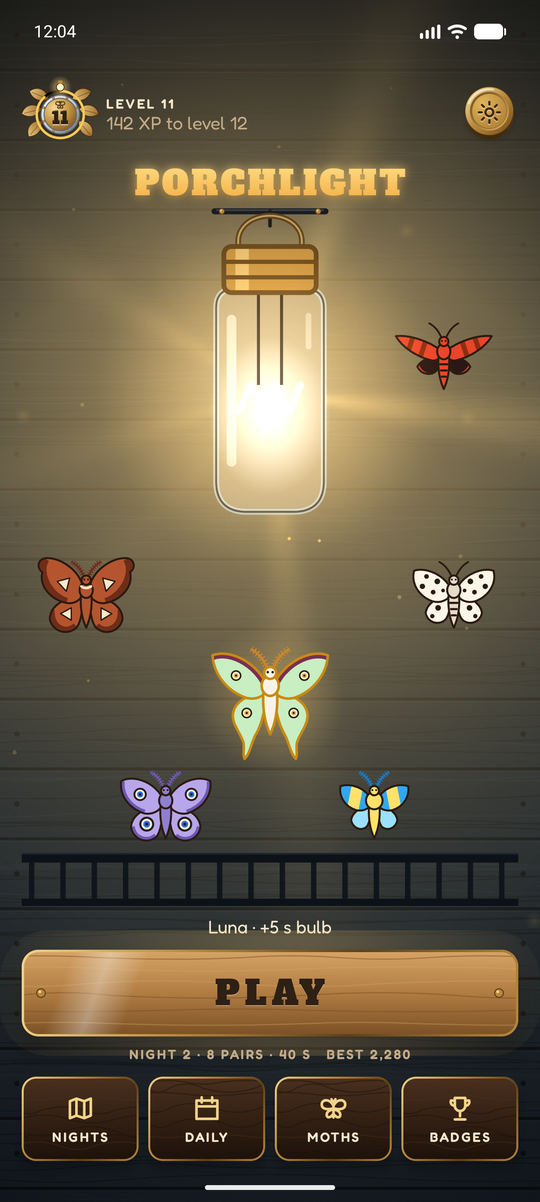
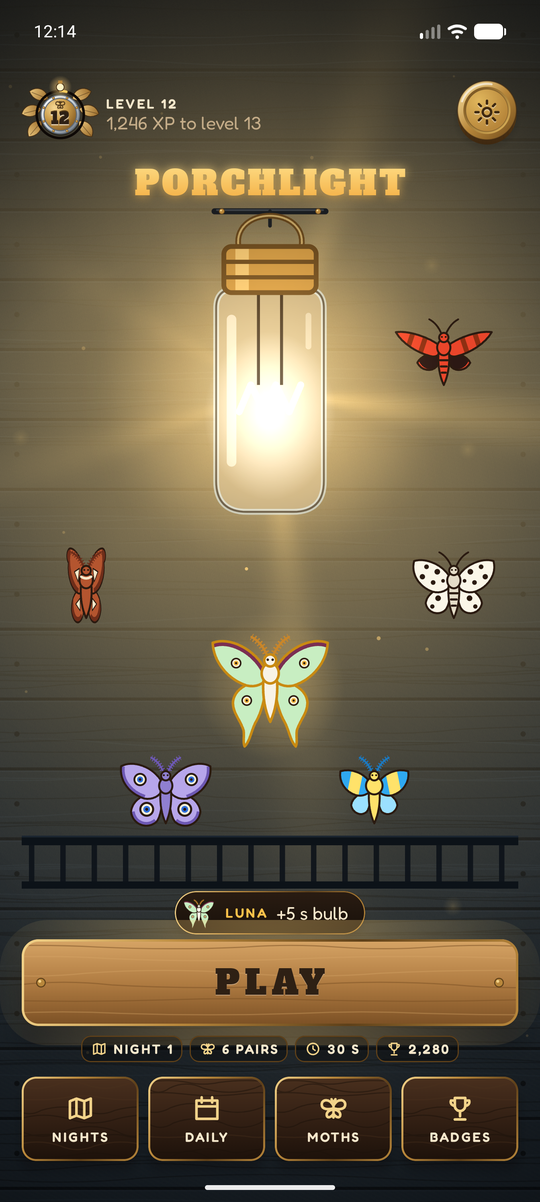
Porch tag and fact plates, a switchable porch light, 3D daily week
- The lead line is a small brass-edged tag: the moth, its name in
  capitals, what it does. Tonight's facts are four engraved plates with
  marks (night, pairs, seconds, best) instead of one run-on caption.
- Tapping the jar switches the porch light off with a click (the wall
  and the moths fall dark) and on again with a couple of flickers and
  the bulb's hum; every moth starts up at the switch. A switch to
  screen readers. It is back on whenever you return to the porch.
- The daily week is 3D coins: brass with the stars cut in for a played
  day, iron pressed into the plank for a missed one, today ringed in
  light (gold once played).
- The daily porch's play button is the big animated sign: PLAY TODAY,
  or PRACTISE once today's try is in.

diff --git a/app/src/main/java/app/porchlight/game/Porch.kt b/app/src/main/java/app/porchlight/game/Porch.kt
@@ -1,5 +1,10 @@
 package app.porchlight.game
 
+import androidx.compose.ui.draw.shadow
+import androidx.compose.foundation.background
+import androidx.compose.foundation.interaction.MutableInteractionSource
+import androidx.compose.foundation.layout.ExperimentalLayoutApi
+import androidx.compose.foundation.layout.FlowRow
 import androidx.compose.runtime.remember
 import kotlinx.coroutines.delay
 import androidx.compose.ui.graphics.drawscope.Stroke
@@ -148,6 +153,7 @@ private fun Logo(calm: Boolean) {
     )
 }
 
+@OptIn(ExperimentalLayoutApi::class)
 @Composable
 private fun Controls(session: Session) {
     val progress = session.store.progress
@@ -155,38 +161,44 @@ private fun Controls(session: Session) {
     val night = NIGHTS[progress.night - 1]
     // On a tablet the sign and tiles keep to a comfortable width instead of spanning the screen.
     Column(Modifier.widthIn(max = 560.dp), horizontalAlignment = Alignment.CenterHorizontally) {
-        // One line: who leads and what they do. Tapping a locked moth explains how to meet it here.
+        // Who leads, on a small brass-edged tag: the moth, its name, what it does. Tap for the full
+        // sentence; tapping a locked moth explains here how to meet it.
+        val notice = session.notice
         Row(
             Modifier
-                .clip(RoundedCornerShape(8.dp))
+                .shadow(4.dp, RoundedCornerShape(20.dp), ambientColor = Dusk.shadow, spotColor = Dusk.shadow)
+                .clip(RoundedCornerShape(20.dp))
+                .background(Brush.verticalGradient(listOf(Color(0xFF2A1C12), Color(0xFF17100A))))
+                .border(1.dp, BrassRule, RoundedCornerShape(20.dp))
                 .clickable(role = Role.Button) {
                     session.noticeMoth = null
                     session.notice = if (session.notice == null) "${lead.perkName}: ${lead.perk}" else null
                 }
-                .padding(horizontal = 8.dp, vertical = 6.dp),
+                .padding(start = 6.dp, end = 14.dp, top = 4.dp, bottom = 4.dp),
             verticalAlignment = Alignment.CenterVertically,
             horizontalArrangement = Arrangement.spacedBy(8.dp),
         ) {
-            session.noticeMoth?.let { MothArt(it, Modifier.size(30.dp), flat = Dusk.locked) }
-            Text(
-                session.notice ?: "${lead.label} · ${brief(lead)}",
-                color = if (session.notice != null) Dusk.amber else Dusk.ink,
-                fontSize = TypeScale.Body,
-                textAlign = TextAlign.Center,
-                maxLines = 2,
-                overflow = TextOverflow.Ellipsis,
-            )
+            MothArt(session.noticeMoth ?: lead, Modifier.size(28.dp), flat = if (session.noticeMoth != null) Dusk.locked else null)
+            if (notice != null) {
+                Text(notice, style = BodyText, color = Dusk.amber, maxLines = 2, overflow = TextOverflow.Ellipsis)
+            } else {
+                Text(lead.label.uppercase(), style = Label, color = Dusk.amber, maxLines = 1)
+                Text(brief(lead), style = BodyText, color = Dusk.ink, maxLines = 1)
+            }
         }
         Spacer(Modifier.height(4.dp))
         PlayButton("Play", session.calm, Modifier.fillMaxWidth()) { session.start(daily = false) }
         Spacer(Modifier.height(8.dp))
-        Text(
-            "NIGHT ${night.number} · ${nightLine(night).uppercase()}" + if (progress.best > 0) "   BEST ${progress.best.grouped()}" else "",
-            style = Label,
-            color = Dusk.inkSoft,
-            maxLines = 1,
-            overflow = TextOverflow.Ellipsis,
-        )
+        // Tonight at a glance: four small engraved plates, each with its mark.
+        FlowRow(
+            horizontalArrangement = Arrangement.spacedBy(6.dp, Alignment.CenterHorizontally),
+            verticalArrangement = Arrangement.spacedBy(6.dp),
+        ) {
+            Fact(Glyph.Map, "NIGHT ${night.number}")
+            Fact(Glyph.Moth, "${night.pairs} PAIRS")
+            Fact(Glyph.Clock, "${night.roundMs / 1000} S")
+            if (progress.best > 0) Fact(Glyph.Trophy, progress.best.grouped())
+        }
         Spacer(Modifier.height(12.dp))
         Row(horizontalArrangement = Arrangement.spacedBy(8.dp)) {
             MenuTile(Glyph.Map, "Nights", Modifier.weight(1f)) { session.open(Screen.Nights) }
@@ -258,7 +270,16 @@ private fun Stage(session: Session, modifier: Modifier) {
                 .padding(top = 14.dp)
                 .size(jarH * 0.7f, jarH)
                 .tracksBulb(session)
-                .semantics { contentDescription = "The porch light, in its jar" },
+                // The jar is the porch light's switch: tap it off and on.
+                .clickable(
+                    interactionSource = remember { MutableInteractionSource() },
+                    indication = null,
+                    role = Role.Switch,
+                ) { session.toggleLamp() }
+                .semantics {
+                    contentDescription = "The porch light"
+                    stateDescription = if (session.porchDark) "Off" else "On"
+                },
         )
 
         val fly = spring<Dp>(dampingRatio = 0.62f, stiffness = Spring.StiffnessLow)
@@ -299,12 +320,21 @@ private fun Stage(session: Session, modifier: Modifier) {
                         val t = session.clock.seconds
                         val turn = (t / 2.6f).toInt() % LEADS.size == i
                         val beat = t % 2.6f
-                        val flutter = if (turn && beat < 0.55f && !session.calm) kotlin.math.abs(kotlin.math.sin(beat * 17f)) else 0f
+                        val own = if (turn && beat < 0.55f && !session.calm) kotlin.math.abs(kotlin.math.sin(beat * 17f)) else 0f
+                        // When the light is switched, every moth starts up at once, then settles.
+                        val since = t - session.stirAt
+                        val stir = if (since in 0f..1.1f && !session.calm) kotlin.math.abs(kotlin.math.sin(since * 21f + i)) * (1f - since / 1.1f) else 0f
+                        val flutter = maxOf(own, stir)
                         // The lead keeps a slow wingbeat of its own as it hovers.
                         val hover = if (chosen && !session.calm) 0.08f * (0.5f + 0.5f * kotlin.math.sin(t * 3.2f)) else 0f
                         // `size` here is the canvas, not the moth's dp size above.
                         val canvas = this.size
-                        moth(id, Offset(canvas.width / 2f, canvas.height / 2f), canvas.minDimension * (if (chosen) 0.86f else 1f), 1f - 0.6f * flutter - hover, gold = gold)
+                        // In the dark the moths are only shapes; with the light back they glow again.
+                        val lift = if (stir > 0f) -canvas.height * 0.06f * stir else 0f
+                        val shown = if (session.porchDark) 0.35f else 1f
+                        drawContext.canvas.saveLayer(androidx.compose.ui.geometry.Rect(Offset.Zero, canvas), androidx.compose.ui.graphics.Paint().apply { alpha = shown })
+                        moth(id, Offset(canvas.width / 2f, canvas.height / 2f + lift), canvas.minDimension * (if (chosen) 0.86f else 1f), 1f - 0.6f * flutter - hover, gold = gold)
+                        drawContext.canvas.restore()
                     }
                 } else {
                     // Not met yet: a dim shape and a small padlock.
@@ -313,5 +343,22 @@ private fun Stage(session: Session, modifier: Modifier) {
                 }
             }
         }
+    }
+}
+
+/** One fact about tonight on a small dark plate with a brass edge: a mark and a word. */
+@Composable
+private fun Fact(glyph: Glyph, text: String) {
+    Row(
+        Modifier
+            .clip(RoundedCornerShape(8.dp))
+            .background(Color.Black.copy(alpha = 0.32f))
+            .border(1.dp, Craft.brassDark, RoundedCornerShape(8.dp))
+            .padding(horizontal = 8.dp, vertical = 4.dp),
+        verticalAlignment = Alignment.CenterVertically,
+        horizontalArrangement = Arrangement.spacedBy(5.dp),
+    ) {
+        GlyphArt(glyph, Craft.brassLight, Modifier.size(14.dp))
+        Text(text, style = Label, color = Dusk.ink, maxLines = 1)
     }
 }

diff --git a/app/src/main/java/app/porchlight/game/Menus.kt b/app/src/main/java/app/porchlight/game/Menus.kt
@@ -320,18 +320,19 @@ internal fun DailyScreen(session: Session) {
                 val entry = progress.dailyLog.lastOrNull { it.day == seed }
                 val isToday = ago == 0
                 Column(horizontalAlignment = Alignment.CenterHorizontally) {
+                    // A played day is a brass coin with its stars cut in; a missed day is an iron
+                    // coin pressed into the plank; today is ringed in light (gold once played).
                     Box(
                         Modifier
-                            .size(34.dp)
-                            .then(if (isToday) Modifier.drawBehind { todayGlow() } else Modifier)
-                            .then(
-                                when {
-                                    entry != null -> Modifier.metal(corner = 17.dp)
-                                    isToday -> Modifier.background(Color.Black.copy(alpha = 0.35f), CircleShape)
-                                    else -> Modifier.border(1.5.dp, Dusk.inkSoft.copy(alpha = 0.55f), CircleShape)
-                                },
-                            )
-                            .then(if (isToday) Modifier.border(2.5.dp, Craft.gold, CircleShape) else Modifier)
+                            .size(42.dp)
+                            .drawBehind {
+                                if (isToday) todayGlow()
+                                val (c, rr) = coinFace(size)
+                                coin(c, rr, press = if (entry == null && !isToday) 0.8f else 0f, dull = entry == null, gold = isToday && entry != null)
+                                if (isToday && entry == null) {
+                                    drawCircle(Craft.gold, rr * 1.02f, Offset(c.x, c.y), style = Stroke(2.5.dp.toPx()))
+                                }
+                            }
                             .semantics {
                                 contentDescription = dayLabel(seed) + when {
                                     entry != null -> ", ${entry.stars} stars"
@@ -341,7 +342,9 @@ internal fun DailyScreen(session: Session) {
                             },
                         contentAlignment = Alignment.Center,
                     ) {
-                        if (entry != null) Text("${entry.stars}", style = TextEngraved, fontSize = TypeScale.Body, color = Dusk.paperInk)
+                        if (entry != null) {
+                            Text("${entry.stars}", style = TextEngraved, fontSize = TypeScale.Heading, color = Color(0xFF3E2810), modifier = Modifier.offset(y = (-2).dp))
+                        }
                     }
                     Spacer(Modifier.height(4.dp))
                     Text("${seed % 100}", style = Label, color = if (isToday) Dusk.amber else Dusk.inkSoft)
@@ -391,7 +394,7 @@ internal fun DailyScreen(session: Session) {
         }
         Spacer(Modifier.height(14.dp))
 
-        PrimaryButton(if (played) "Practise today's porch" else "Play today's porch", Modifier.fillMaxWidth()) { session.start(daily = true) }
+        PlayButton(if (played) "Practise" else "Play today", session.calm, Modifier.fillMaxWidth()) { session.start(daily = true) }
         if (played) {
             Spacer(Modifier.height(8.dp))
             SecondaryButton("Share today's porch", Modifier.fillMaxWidth()) {

diff --git a/app/src/main/java/app/porchlight/game/GameScreen.kt b/app/src/main/java/app/porchlight/game/GameScreen.kt
@@ -112,6 +112,35 @@ internal class Session(val store: Store, val sfx: Sfx, val clock: Clock) {
     /** Counts Sorbet top-ups, so the "+1.5s" can float off the bulb each time. */
     var topUps by mutableIntStateOf(0)
 
+    /** The porch lamp switched off by a tap on the jar (the lobby only). */
+    var porchDark by mutableStateOf(false)
+
+    /** When the jar was last tapped, in clock seconds: the moths start up at it. */
+    var stirAt by mutableFloatStateOf(-10f)
+
+    /** Tapping the jar: off with a click, on again with a couple of flickers and the bulb's hum. */
+    fun toggleLamp() {
+        stirAt = clock.seconds
+        if (!porchDark) {
+            porchDark = true
+            sfx.play(Sound.Pop, volume = 0.45f, pitch = 1.3f)
+            buzz(HapticFeedbackType.SegmentTick)
+            return
+        }
+        porchDark = false
+        buzz(HapticFeedbackType.Confirm)
+        scope?.launch {
+            if (!calm) {
+                for ((dip, ms) in listOf(0.15f to 60L, 1f to 80L, 0.35f to 50L, 1f to 0L)) {
+                    flicker = dip
+                    if (ms > 0) delay(ms)
+                }
+            }
+            flicker = 1f
+            sfx.play(Sound.Buzz, volume = 0.7f)
+        }
+    }
+
     /** Badges already looked at on the Badges screen; any others are new. Kept for this run of the app. */
     var seenBadges: Set<Badge> = store.progress.badges
 
@@ -412,6 +441,7 @@ internal class Session(val store: Store, val sfx: Sfx, val clock: Clock) {
 
     fun toPorch() {
         leaving = false
+        porchDark = false
         report = null
         reset()
         round = Round.ready(lead, NIGHTS[store.progress.night - 1])
@@ -576,7 +606,7 @@ fun GameScreen(store: Store, sfx: Sfx) {
     val burning = round.running || round.phase == Phase.Won
     val on by animateFloatAsState(
         when {
-            session.screen == Screen.Porch -> 0.9f
+            session.screen == Screen.Porch -> if (session.porchDark) 0.04f else 0.9f
             // Dark while the cards are dealt; it comes on with the warm-up.
             round.phase == Phase.Peek && session.peekStage == PeekStage.Deal -> 0f
             burning -> 1f
